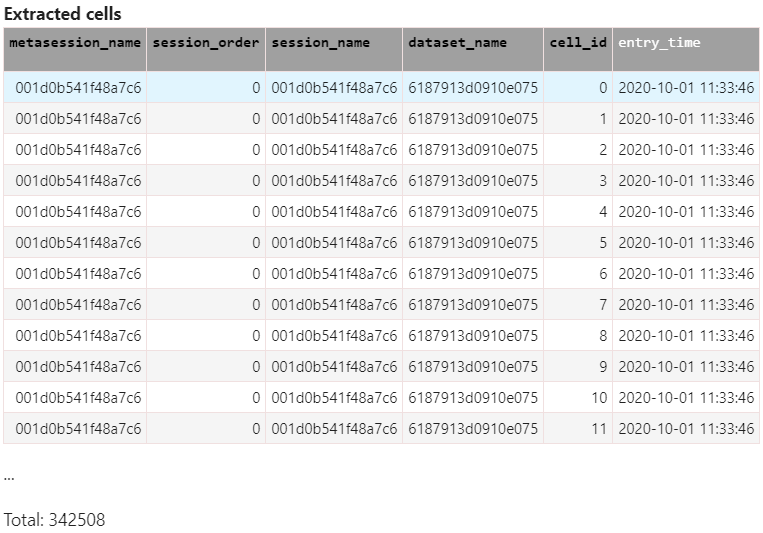
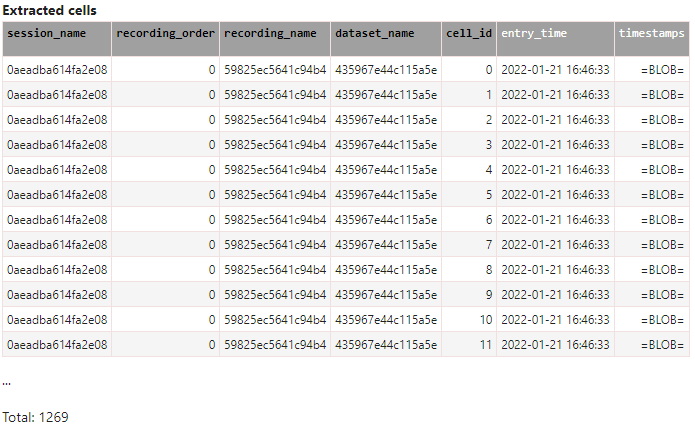
Updating docs to match new (imaging) web GUI (#50)
* Update to match new web GUI

* .md to .rst link fixes

* Updates to match new pipeline

* Ref and images fixes

* Update second reference to webgui

diff --git a/docs/imaging/how-to-add-sessions.rst b/docs/imaging/how-to-add-sessions.rst
@@ -5,30 +5,35 @@ Imaging:  Web GUI
 ===========================
 
 1. Copy files to a file server
-2. Open the imaging `Website`_ and log in (ask Simon Ball or Horst Obenhaus for log in credentials if this is your first log in)
+2. Open the `Web GUI website <https://datajoint.kavli.org.ntnu.no>`_ and log in (ask Simon Ball or Horst Obenhaus for log in credentials if this is your first log in)
 
-    - Go to *BaseFolder* -> *Add BaseFolder*
+    - Go to *Imaging* -> *BaseFolders* -> *Add BaseFolder*
     
-3. Fill out the details in the mask on that website. Make sure you get the session logic *combined* right. It determines how sessions and recordings are created in the database. This only has relevance for data acquired with scanimage (miniscope, ...). For femtonics recordings this function is not implemented and has to remain on "no" (not combined). :ref:`Imaging ingestion combined`
+3. Fill out the details in the mask on that website. Make sure you get the session logic *combined* right. It determines how sessions and recordings are created in the database. This only has relevance for data acquired with scanimage (miniscope, ...). See :ref:`Imaging ingestion combined`. For femtonics recordings this function is not implemented and has to remain on "no" (not combined).
 
     - **Experimenter:** select your username from the list.
     
     - **File path:** specify the file path to where your raw data is stored.
     
-    - **Combined?:**  See :ref:`Imaging ingestion combined`. For the Femtonics 
+    - **Combined?:**  See :ref:`Imaging ingestion combined`. For the Femtonics this must be "no".
     
-    - **Setup:** Select which microscope type you used (Illuminato = Femtonics).
+    - **System Configuration:** Select which microscope type you used (Illuminato = Femtonics).
     
     - **Scope model:** for miniscope users only, select which model you used.
     
     - **Animal ID in mLIMS:** the animal ID of your furry collaborator as registered in mLIMS. 
     
-    - **Suite2P python options:** this selection determines how Suite2p, which is incorporated into the pipeline, analyses your data. You can make your own set of options that work best with your data, but for now just choose an existing one and see how that works. **Miniscope users:** choose an option that matches the indicator you're using. **Femtonics users:** flavio-develop is a good place to start. 
+    - **Suite2P python options:** this selection determines how Suite2p, which is incorporated into the pipeline, analyses your data. You can make your own set of options (see :ref:`Imaging Basics Add-Suite2p-Options`) that work best with your data, but for now just choose an existing one and see how that works first.
+
+    - **Session Note:** optional, add any additional notes relevant to the session
     
     .. figure:: /_static/imaging/gui_basefolder_example.png
        :alt: Adding a Femtonics base folder via the web gui
 
-4. Wait for the background worker process to run (no user interaction required)
+4. Click "Submit" and refresh the page or go to *Imaging* -> *BaseFolders* -> *View BaseFolders*
+
+    - Is there a green tick mark next to the session you just ingested? All is well and you can continue.
+    - Is there an orange X instead? Contact Simon Ball
 
 5. Check the *Search -> Search Recordings (Imaging)* subpage in the web GUI:
   
@@ -38,17 +43,21 @@ Imaging:  Web GUI
   
   - If the session was an object session, you can use the `Enter object locations Napari Jupyter notebook <https://github.com/kavli-ntnu/dj-moser-imaging/blob/master/Helper_notebooks/Enter%20object%20locations%20Napari.ipynb>`_, which lets you specify details (location, type) of objects in the arena. 
 
-6. Check whether the imaging analysis has run through (only **Suite2P** at the moment). This information can be retrieved from the imaging web GUI (under *Suite2p* -> *Finished Suite2p Jobs*).
+  - If it was e.g. a headfixed wheel session, click the *Wheel* button to associate the correct apparatus to the session
 
-7. Curate the imaging analysis results (Suite2p GUI)
+6. Check whether the imaging analysis has run through (only **Suite2P** at the moment). This information can be retrieved under *Imaging* -> *Suite2p* -> *Finished Suite2p Jobs*.
+  
+  - Can't see your session there? Check if a suite2p folder has been created in the same folder as your raw data. If so, it probably just need more time. If not, contact Simon Ball.
+
+7. Curate the imaging analysis results (see :ref:`Imaging Basics Curate-Suite2p`)
 
 8. Once you are happy with the results, re-add the session BaseFolder to the web GUI. Use **the same information** as when you added the BaseFolder the first time (take care of *Suite2P* options and combined status). There is a convenient way of doing that: Just click the button "Add" behind the session under *Suite2p* -> *Finished Suite2p Jobs* in the web GUI.
 
 9. Datajoint will re-ingest the BaseFolder, but only add information that has been missing before (the imaging analysis (**Suite2P**) output.
  
-10. Lean back and watch things being calculated (web GUI: *Miscellanious* -> *Jobs*).
+10. Lean back and watch things being calculated (web GUI: *Imaging* -> *Miscellanious* -> *Jobs*).
 
-11. Go through the notebooks to make sense of your analysis results or use the [Session Viewer GUI](https://github.com/kavli-ntnu/dj-moser-imaging/tree/master/viewer) to inspect the results (the GUI is work in progress, so don't expect too much right now).
+11. Go through the notebooks to make sense of your analysis results or use the :ref:`Imaging session viewer` to inspect the results (the GUI is work in progress, so don't expect too much right now).
 
 
 
@@ -109,12 +118,9 @@ If you re-ingested the imaging analysis output once and then change something fr
 If things fail
 ^^^^^^^^^^^^^^^^^^^^
 
-- Check the Imaging `Website`_ (*Miscellanious* -> *Jobs*)
+- Check the Imaging `website <https://datajoint.kavli.org.ntnu.no>`_ (*Miscellanious* -> *Jobs*)
 
 - If there was an error in the ``MakeDatasetsRecordings`` table (so during the basic ingest), make sure the computer that runs the ``MakeDatasetsRecordings`` job knows about the file server that the raw data was saved.
 
 - Ask Horst or Simon on Teams or via email. 
 
-
-
-.. _Website: datajoint.kavli.org.ntnu.no

diff --git a/docs/common/finding.md b/docs/common/finding.md
@@ -6,7 +6,7 @@ Both pipelines are large, complex networks of schemas, tables, and columns. Here
 
 Datajoint includes a Diagram feature, to display the pipeline as a connected network. This can operate either on a _schema_ object, or a table, or some combination of the two. You may also see the keyword "ERD" used in places - this is a more mathematically correct description ("entity relationship diagram"), but it means the same thing, and executes exactly the same Python code to give you a graphical output. 
 
-**Electrophysiology:** view the ephys diagram
+**Electrophysiology:** connect and view the ephys diagram
 
 ```python
 import datajoint as dj
@@ -18,14 +18,14 @@ dj.Diagram(ephys)
 
 *Image showing the entire ephys diagram (note: the ephys pipeline also contains other schemas, such as one for analysis and one for behaviour).*
 
-**Imaging:** view the entire imaging pipeline diagram
+**Imaging:** connect and view the entire imaging pipeline diagram
 
 ```python
 import datajoint as dj
 
-schema = dj.schema(dj.config["custom"]["dj_imaging.database"])
-schema.spawn_missing_classes()
-dj.ERD(schema)
+imaging = dj.create_virtual_module('imaging', 'group_shared_imaging')
+imaging.schema.spawn_missing_classes()
+dj.ERD(imaging)
 ```
 ![](../_static/imaging/Imaging_schema.png)
 
@@ -41,9 +41,9 @@ dj.ERD(schema)
 
     Small tables containing general facts, settings or other data entered by hand or with external helper scripts. 
    
-    E.g. `MiceDevelopProject` contains a list of animals and the additional names they were given for a developmental project.
+    E.g. `RecordingType` contains a list of the types of recordings, e.g. OpenField, Wheel, etc.
 
-    E.g. `BaseFolder` contains the information provided by the user when ingesting data, such as via the [Web GUI](http://2p.neuroballs.net:5000/)
+    E.g. `BaseFolder` contains the information provided by the user when ingesting data, such as via the [Web GUI](https://datajoint.kavli.org.ntnu.no/)
 
 * **Purple (imported):** data generated within the pipeline based on data from outside
 
@@ -63,7 +63,7 @@ dj.ERD(schema)
 
     E.g. `Cell` gathers data from Suite2p, which is very rich. Two part tables are therefore used instead of one, categorising the data into `Cell.Traces` (dF/F trace etc.) and `Cell.Rois` (number of pixels, ellipticity etc.). Their master table `Cell` only contains a `cell_id` for referencing.
 
-    E.g. `Ratemap` contains data on ratemaps, such as the number of fields. But each field within a ratemap also has a number of values associated with it, such as peak rate. These are saved in `Ratemap.Fields`. I.e. unlike the example above, these tables do not have the same size: for each ratemap (one row in `Ratemap`) there are multiple fields (saved as multiple rows in `Ratemap.Fields`).
+    E.g. `TuningMap` contains data equivalent to ratemaps in the ephys pipeline, such as the number of fields in an open field recording. But each field within a tuningmap also has a number of values associated with it, such as peak rate. These are saved in `TuningMap.Fields`. I.e. unlike the example above, these tables do not have the same size: for each tuningmap (one row in `TuningMap`) there are multiple fields (saved as multiple rows in `TuningMap.Fields`).
 
 For more info on these table types, check out the [Datajoint website](https://docs.datajoint.io/python/definition/05-Data-Tiers.html).
 
@@ -88,7 +88,7 @@ dj.ERD(Cell)+2
 ```
 ![](../_static/imaging/schemas/erd_cell.png)
 
-*The `Cell` table has two part tables, `Cell.Rois` and `Cell.Traces`. The `Cell.Traces` table is used by `Cell.Spikes`, in which spikes inferred from the traces are stored. These are then filtered in `FilteredSpikes`.*
+*The `Cell` table has two part tables, `Cell.Rois` and `Cell.Traces`. The `Cell.Traces` table is used by `Cell.Events`, in which spikes inferred from the traces are stored. These are then filtered in `FilteredEvents`.*
 
 
 You can also add diagrams together - or subtract - to get a more complex overview that keeps or avoids certain sections of the network
@@ -102,7 +102,7 @@ dj.Diagram(ephys) + dj.Diagram(analysis) - dj.Diagram(analysis.ShuffledScores)
 **Imaging:** view only specified parts of the diagram
 
 ```python
-dj.ERD(Session)+dj.ERD(Cell)+dj.ERD(ImagingAnalysis)
+dj.ERD(Recording)+dj.ERD(Cell)+dj.ERD(ImagingAnalysis)
 ```
 ![](../_static/imaging/schemas/erd_imaging_analysis.png)
 
@@ -128,7 +128,7 @@ Cell()
 ```
 ![](../_static/imaging/cell_table.png)
 
-*The `Cell` table contains five primary keys (black font) and one non-primary key (white font) for each and every cell within the database (at the time of writing: >340 000 cells).*
+*The `Cell` table contains five primary keys (black font) and one non-primary key (white font) for each and every cell within the database (at the time of writing: >1200 cells).*
 
 
 

diff --git a/docs/imaging/basics.rst b/docs/imaging/basics.rst
@@ -17,7 +17,7 @@ Most interactions with the imaging pipeline will be either:
 
 - **Adding data** to the pipeline after recording. Mostly done via the :ref:`Imaging ingestion`
 - **Evaluating cells** identified by Suite2p or other algorithm. :ref:`Imaging Basics Evaluate`
-- **Fetching data** from the pipeline for analysis. :ref:`Common Operations Fetch`
+- **Fetching data** from the pipeline for analysis. See :ref:`Common Operations Fetch` for how this works, and the :ref:`Imaging notebooks` for examples of how to work with your data
 
 Less common processes
 ^^^^^^^^^^^^^^^^^^^^^^^^
@@ -70,6 +70,8 @@ If you are familiar with git, you can follow the installation instructions in th
     * ``(suite2p) $ pip install suite2p``
 
 
+.. _Imaging Basics Curate-Suite2p:
+
 Identify cells to keep
 ^^^^^^^^^^^^^^^^^^^^^^^^^
 With suite2p installed, you can open the GUI via the Anaconda Prompt after activating the suite2p environment:
@@ -110,6 +112,7 @@ NOTE: if you decide to re-sort the ROIs, you can follow the exact same steps, in
 
 If suite2p hasn't done a good job of identifying cells, it may be worth creating your own options file with settings tuned specifically to your data (see below).
 
+.. _Imaging Basics Add-Suite2p-Options:
 
 Create a new suite2p options file for your data
 ^^^^^^^^^^^^^^^^^^^^^^^^^^^^^^^^^^^^^^^^^^^^^^^^^^^^^^^^^
@@ -126,7 +129,7 @@ To create your own:
     * If you already have a suite2p folder in that location, move it to another folder if you want to keep it, or delete it.
     * Click *RUN SUITE2P* (the panel below will show the analysis progress and let you know when it's finished).
     * The analysis output will automatically load into the suite2p GUI where you can evaluate it.
-* When you are happy with your modified options, make this new options file available in the imaging web GUI by uploading it under *Suite2p -> Add Suite2p Options*
+* When you are happy with your modified options, make this new options file available in the imaging web GUI by uploading it under *Imaging -> Suite2p -> Add Suite2p Options*
 * Notify the pipeline to use the new ROIs you've obtained on your data (:ref:`Imaging ingestion change_cell`)
 
 

diff --git a/docs/imaging/helper-notebooks.rst b/docs/imaging/helper-notebooks.rst
@@ -4,6 +4,7 @@
 Imaging: Helper notebooks
 ===================================
 
+**Note: a notebook taking you through the NEW imaging pipeline will be added soon. Currently available notebooks are only related to the old pipeline, but they can still be useful to get familiar with the workflow**
 This page documents the jupyter notebooks available under `/Helper_notebooks <https://github.com/kavli-ntnu/dj-moser-imaging/blob/master/Helper_notebooks>`_.
 
 
